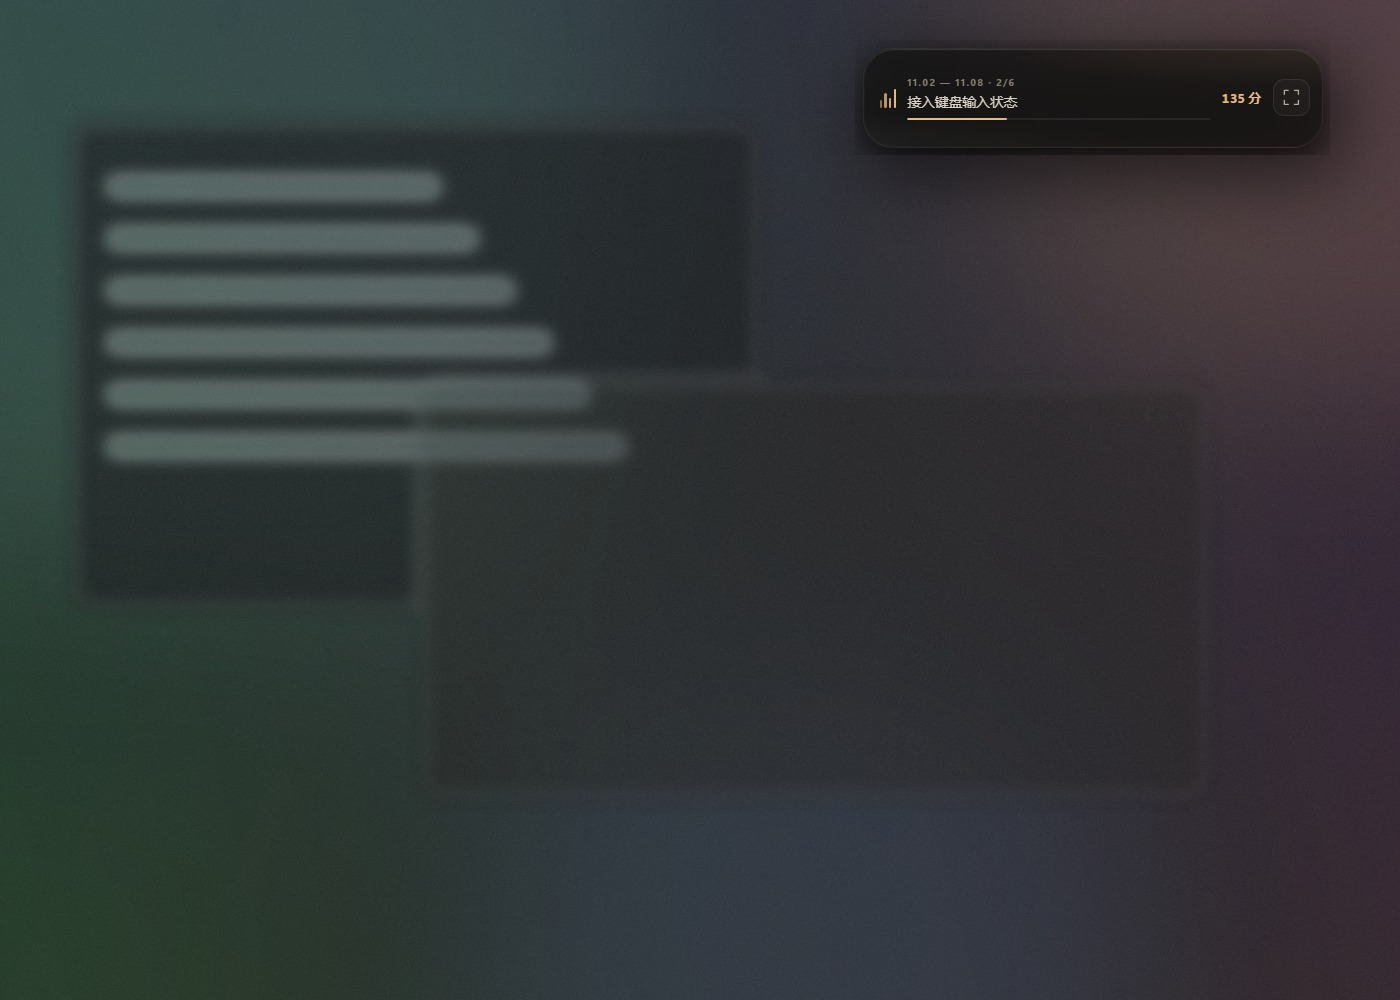
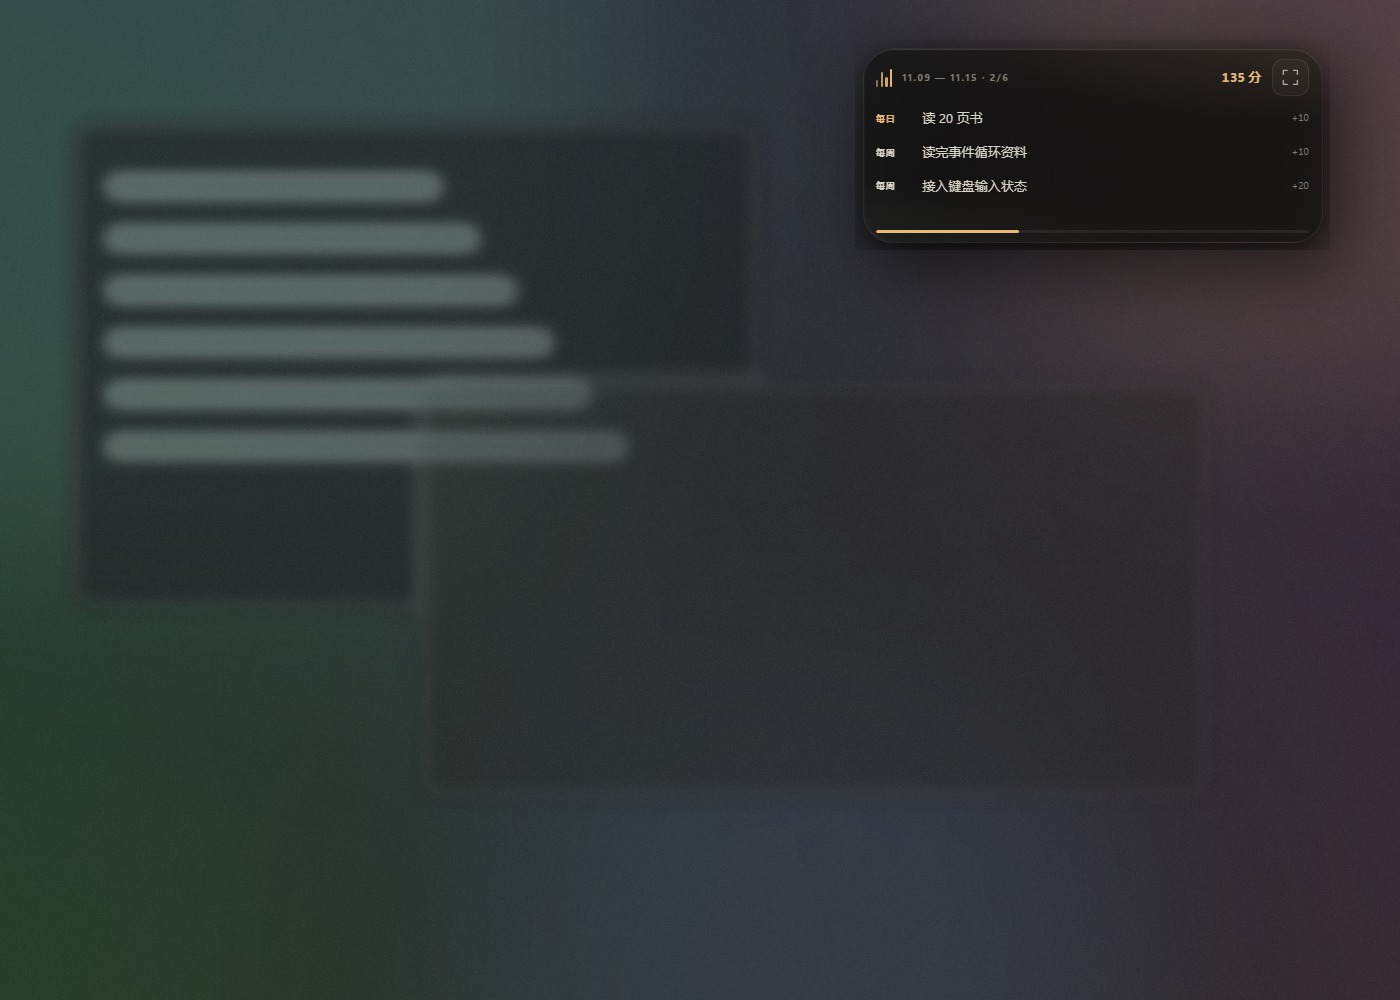
release: v0.10.4

Changed region(s): [[0.6143, 0.062, 0.9521, 0.279], [0.86, 0.062, 0.9214, 0.124]]

diff --git a/src/renderer/app.js b/src/renderer/app.js
@@ -1,7 +1,9 @@
 import {
+  activeHabits,
   compareWeeks,
   computeBalance,
   endOfWeekISO,
+  habitCompletion,
   isoWeekInfo,
   overdueTasks,
   startOfWeekISO,
@@ -28,7 +30,7 @@ const ctx = {
   state: null,
   revision: 0,
   dataDir: '',
-  version: '0.10.3',
+  version: '0.10.4',
   hotkey: null,
   currentWeek: startOfWeekISO(todayISO()),
   selectedWeek: startOfWeekISO(todayISO()),
@@ -188,22 +190,53 @@ function renderCurrentView() {
   return renderWeek(ctx);
 }
 
+function compactRow(kind, label, title, points, { done = false, empty = false } = {}) {
+  return `
+    <div class="compact-row ${done ? 'done' : ''} ${empty ? 'empty' : ''}" data-kind="${kind}">
+      <span class="compact-tag ${kind}">${label}</span>
+      <span class="compact-row-title">${escapeHtml(clampText(title, 38))}</span>
+      <span class="compact-row-points">${points}</span>
+    </div>
+  `;
+}
+
 function renderCompact() {
+  const today = todayISO();
+  const habits = activeHabits(ctx.state);
   const tasks = tasksForWeek(ctx.state, ctx.currentWeek).filter((task) => task.status !== 'done');
   const overdue = overdueTasks(ctx.state, ctx.currentWeek);
-  const next = tasks[0] || overdue[0] || null;
+  const queue = [...tasks];
+  for (const task of overdue) {
+    if (!queue.some((entry) => entry.id === task.id)) queue.push(task);
+  }
+
+  const firstHabit = habits.find((habit) => !habitCompletion(ctx.state, habit.id, today)) || habits[0];
+  const habitDone = firstHabit ? Boolean(habitCompletion(ctx.state, firstHabit.id, today)) : false;
+  const firstWeek = queue[0];
+  const secondWeek = queue[1];
   const stats = weekStats(ctx.state, ctx.currentWeek);
   const progress = Math.round(stats.progress * 100);
+
   return `
     <div class="compact-bar">
-      <div class="compact-brand" aria-hidden="true"><span></span><span></span><span></span><span></span></div>
-      <div class="compact-copy">
-        <div class="compact-week">${dotDate(ctx.currentWeek)} — ${dotDate(endOfWeekISO(ctx.currentWeek))} · ${stats.done}/${stats.total}</div>
-        <div class="compact-task">${next ? escapeHtml(clampText(next.title, 46)) : '本周已清空'}</div>
-        <div class="compact-track"><span style="width:${progress}%"></span></div>
+      <div class="compact-head">
+        <div class="compact-brand" aria-hidden="true"><span></span><span></span><span></span><span></span></div>
+        <div class="compact-copy">
+          <div class="compact-week">${dotDate(ctx.currentWeek)} — ${dotDate(endOfWeekISO(ctx.currentWeek))} · ${stats.done}/${stats.total}</div>
+        </div>
+        <span class="compact-points">${ctx.balance.toLocaleString('zh-CN')} 分</span>
+        <button class="compact-open" data-action="expand-compact" aria-label="展开周流">${icon('expand', 15)}</button>
       </div>
-      <span class="compact-points">${ctx.balance.toLocaleString('zh-CN')} 分</span>
-      <button class="compact-open" data-action="expand-compact" aria-label="展开周流">${icon('expand', 15)}</button>
+      <div class="compact-list">
+        ${
+          firstHabit
+            ? compactRow('daily', '每日', firstHabit.title, habitDone ? '已完成' : `+${firstHabit.points}`, { done: habitDone })
+            : compactRow('daily', '每日', '还没有每日任务', '—', { empty: true })
+        }
+        ${compactRow('week', '每周', firstWeek ? firstWeek.title : '本周已清空', firstWeek ? `+${firstWeek.points}` : '—', { empty: !firstWeek })}
+        ${compactRow('week', '每周', secondWeek ? secondWeek.title : '本周已清空', secondWeek ? `+${secondWeek.points}` : '—', { empty: !secondWeek })}
+      </div>
+      <div class="compact-track"><span style="width:${progress}%"></span></div>
     </div>
   `;
 }
@@ -713,6 +746,15 @@ async function boot() {
     setupEvents();
     applyTheme();
     render();
+    api.getLogin?.().then((result) => {
+      if (!result?.ok || !ctx.state) return;
+      const actual = Boolean(result.enabled);
+      if (ctx.state.settings.launchAtLogin !== actual) {
+        ctx.state.settings.launchAtLogin = actual;
+        ctx.render();
+        ctx.persist();
+      }
+    });
     let renderedDay = todayISO();
     setInterval(() => {
       if (!ctx.state) return;

diff --git a/src/renderer/views/settings.js b/src/renderer/views/settings.js
@@ -101,6 +101,19 @@ export function renderSettings(ctx) {
       </div>
 
       <div class="settings-section">
+        <div class="settings-label">启动</div>
+        <div class="settings-card">
+          ${switchRow({
+            setting: 'launchAtLogin',
+            name: '开机自动启动',
+            desc: '登录 Windows 后自动显示周流；开关状态会与系统启动项同步。',
+            checked: settings.launchAtLogin,
+            iconName: 'play',
+          })}
+        </div>
+      </div>
+
+      <div class="settings-section">
         <div class="settings-label">桌面</div>
         <div class="settings-card">
           ${switchRow({
@@ -185,7 +198,7 @@ export function renderSettings(ctx) {
           <div class="setting-row">
             <span class="setting-copy">
               <span class="setting-name">${icon('expand', 13)} 桌面小条</span>
-              <span class="setting-desc">收成一条，只显示进度和下一件事。</span>
+              <span class="setting-desc">收成小条，显示每日第一个和每周前两个任务。</span>
             </span>
             <span class="setting-control">
               <button class="btn btn-secondary btn-sm" data-action="toggle-compact">${ctx.ui.compact ? '展开' : '收起'}</button>
@@ -197,13 +210,6 @@ export function renderSettings(ctx) {
             desc: `开启后点击会落到桌面。按 ${ctx.hotkey || '托盘菜单'} 或使用托盘恢复。`,
             checked: ctx.ui.clickThrough,
             iconName: 'mouse',
-          })}
-          ${switchRow({
-            setting: 'launchAtLogin',
-            name: '开机自动启动',
-            desc: '登录 Windows 后自动显示周流。',
-            checked: settings.launchAtLogin,
-            iconName: 'play',
           })}
         </div>
       </div>

diff --git a/src/renderer/styles.css b/src/renderer/styles.css
@@ -3564,15 +3564,23 @@ input[type='range']::-webkit-slider-thumb {
 .compact-bar {
   height: 100%;
   display: flex;
-  align-items: center;
-  gap: 9px;
-  padding: 0 9px 0 13px;
+  flex-direction: column;
+  align-items: stretch;
+  gap: 5px;
+  padding: 8px 10px 7px;
   -webkit-app-region: drag;
   overflow: hidden;
 }
 
 .compact-bar button {
   -webkit-app-region: no-drag;
+}
+
+.compact-head {
+  display: flex;
+  align-items: center;
+  gap: 8px;
+  min-width: 0;
 }
 
 .compact-brand {
@@ -3629,12 +3637,69 @@ input[type='range']::-webkit-slider-thumb {
   margin-top: 1px;
 }
 
+.compact-list {
+  display: flex;
+  flex-direction: column;
+  gap: 2px;
+  min-width: 0;
+}
+
+.compact-row {
+  display: flex;
+  align-items: center;
+  gap: 6px;
+  min-width: 0;
+  height: 25px;
+}
+
+.compact-tag {
+  width: 31px;
+  flex: none;
+  color: var(--accent);
+  font-size: 7.5px;
+  font-weight: 650;
+  letter-spacing: 0.04em;
+}
+
+.compact-tag.week {
+  color: var(--text-soft);
+}
+
+.compact-row-title {
+  flex: 1;
+  min-width: 0;
+  overflow: hidden;
+  color: var(--text-soft);
+  font-size: 10.5px;
+  line-height: 1.3;
+  text-overflow: ellipsis;
+  white-space: nowrap;
+}
+
+.compact-row-points {
+  flex: none;
+  color: var(--faint);
+  font-size: 8px;
+  font-variant-numeric: tabular-nums;
+}
+
+.compact-row.done .compact-row-title {
+  color: var(--faint);
+  text-decoration: line-through;
+  text-decoration-thickness: 0.5px;
+}
+
+.compact-row.empty .compact-row-title {
+  color: var(--faint);
+  font-style: italic;
+}
+
 .compact-track {
   width: 100%;
   height: 2px;
   border-radius: 2px;
   background: rgb(var(--overlay-rgb) / 7%);
-  margin-top: 5px;
+  margin-top: auto;
   overflow: hidden;
 }
 

diff --git a/src/renderer/actions.js b/src/renderer/actions.js
@@ -1515,13 +1515,18 @@ export const ACTIONS = {
       return;
     }
     if (key === 'launchAtLogin') {
-      ctx.state.settings.launchAtLogin = el.checked;
-      ctx.api.setLogin(el.checked).then((result) => {
-        if (!result?.ok) {
+      const requested = Boolean(el.checked);
+      ctx.state.settings.launchAtLogin = requested;
+      ctx.api.setLogin(requested).then((result) => {
+        const actual = Boolean(result?.ok && result.enabled);
+        if (!result?.ok || (requested && !actual)) {
           ctx.state.settings.launchAtLogin = false;
           ctx.showToast(result?.error || '设置开机启动失败');
-          ctx.render();
+        } else {
+          ctx.state.settings.launchAtLogin = actual;
         }
+        ctx.render();
+        ctx.persist();
       });
       ctx.persist();
       return;

diff --git a/README.md b/README.md
@@ -2,13 +2,14 @@
 
 一个挂在桌面边缘的透明每周待办小组件。把三个月的大目标拆成十二周，把这一周过完；完成事情攒积分，积分可以换奖励，也可以去奖池里赌一次运气。
 
-**当前版本：0.10.3** · [更新日志](CHANGELOG.md)
+**当前版本：0.10.4** · [更新日志](CHANGELOG.md)
 
 ![周流 · 本周](docs/images/week.jpg)
 
 ## 它是什么
 
-- **透明、无边框、常驻桌面**：半透明毛玻璃面板，自动淡出，可收成一条只显示进度和下一件事的小条。
+- **透明、无边框、常驻桌面**：半透明毛玻璃面板，自动淡出，可收成小条显示每日第一个和每周前两个任务。
+- **开机自动启动**：设置页独立“启动”开关，随 Windows 登录自动显示周流。
 - **默认更简洁**：底部导航平时收起成一个小把手，需要时再展开；任务是一列纵向清单，不再挤成横排。每条周任务/每日任务右上角都有铅笔和垃圾桶，直接编辑或删除。
 - **随时调外观**：顶栏太阳按钮打开快捷面板，滑杆直接调透明度，4 个主题（墨夜、苔林、暮紫、米白）一键切换。
 - **长期目标 → 每周任务**：可以接 AI 自动拆解（Ollama、LM Studio、DeepSeek、OpenAI 等任意 OpenAI 兼容接口），也可以完全手动按周排计划。
@@ -26,7 +27,7 @@
 
 ## 快速开始
 
-1. 解压 `WeekFlow-0.10.3-win-x64-portable.zip` 到任意可写文件夹（不要直接在压缩包里运行）。
+1. 解压 `WeekFlow-0.10.4-win-x64-portable.zip` 到任意可写文件夹（不要直接在压缩包里运行）。
 2. **双击 `START_WEEKFLOW.cmd`**，不要直接点 `WeekFlowApp.exe`。尤其是把文件夹放在 DSH 的 `default-workspace` 下时，Windows 会阻止其中的 GUI 程序直接启动；启动器会先把运行文件复制到 `%LOCALAPPDATA%\WeekFlow\runtime`，再从那里启动。首次会多等几秒。
 3. 默认在屏幕右上角出现。可直接拖动顶部区域移动；右上角 `—` 收起成桌面小条。
 4. 打开 `设置 → AI 规划`，填入你的模型接口，点“测试”：

diff --git a/CHANGELOG.md b/CHANGELOG.md
@@ -2,6 +2,21 @@
 
 版本号遵循语义化版本。日期为本地发布日期。
 
+## [0.10.4] - 2026-11-09
+
+### 新增
+
+- 桌面小条从 1 行扩展为 3 行：每日第一个任务 + 每周前两个任务。
+- 小条高度从 92px 调整为 168px，仍按原来的“收起”方式缩放。
+- 设置页新增独立的“启动”区，提供“开机自动启动”开关。
+- 启动开关会读取当前 Windows 启动项，并把状态同步回设置，避免显示与实际不一致。
+- 开机启动改为调用便携版 `START_WEEKFLOW.cmd`，确保启动后仍读取同一个 `data/`，不会启动到空数据目录。
+
+### 变更
+
+- 每日任务优先显示今天第一个未完成项；都完成时显示第一项。
+- 每周任务优先显示本周未完成项，再补逾期任务。
+
 ## [0.10.3] - 2026-11-09
 
 ### 新增
